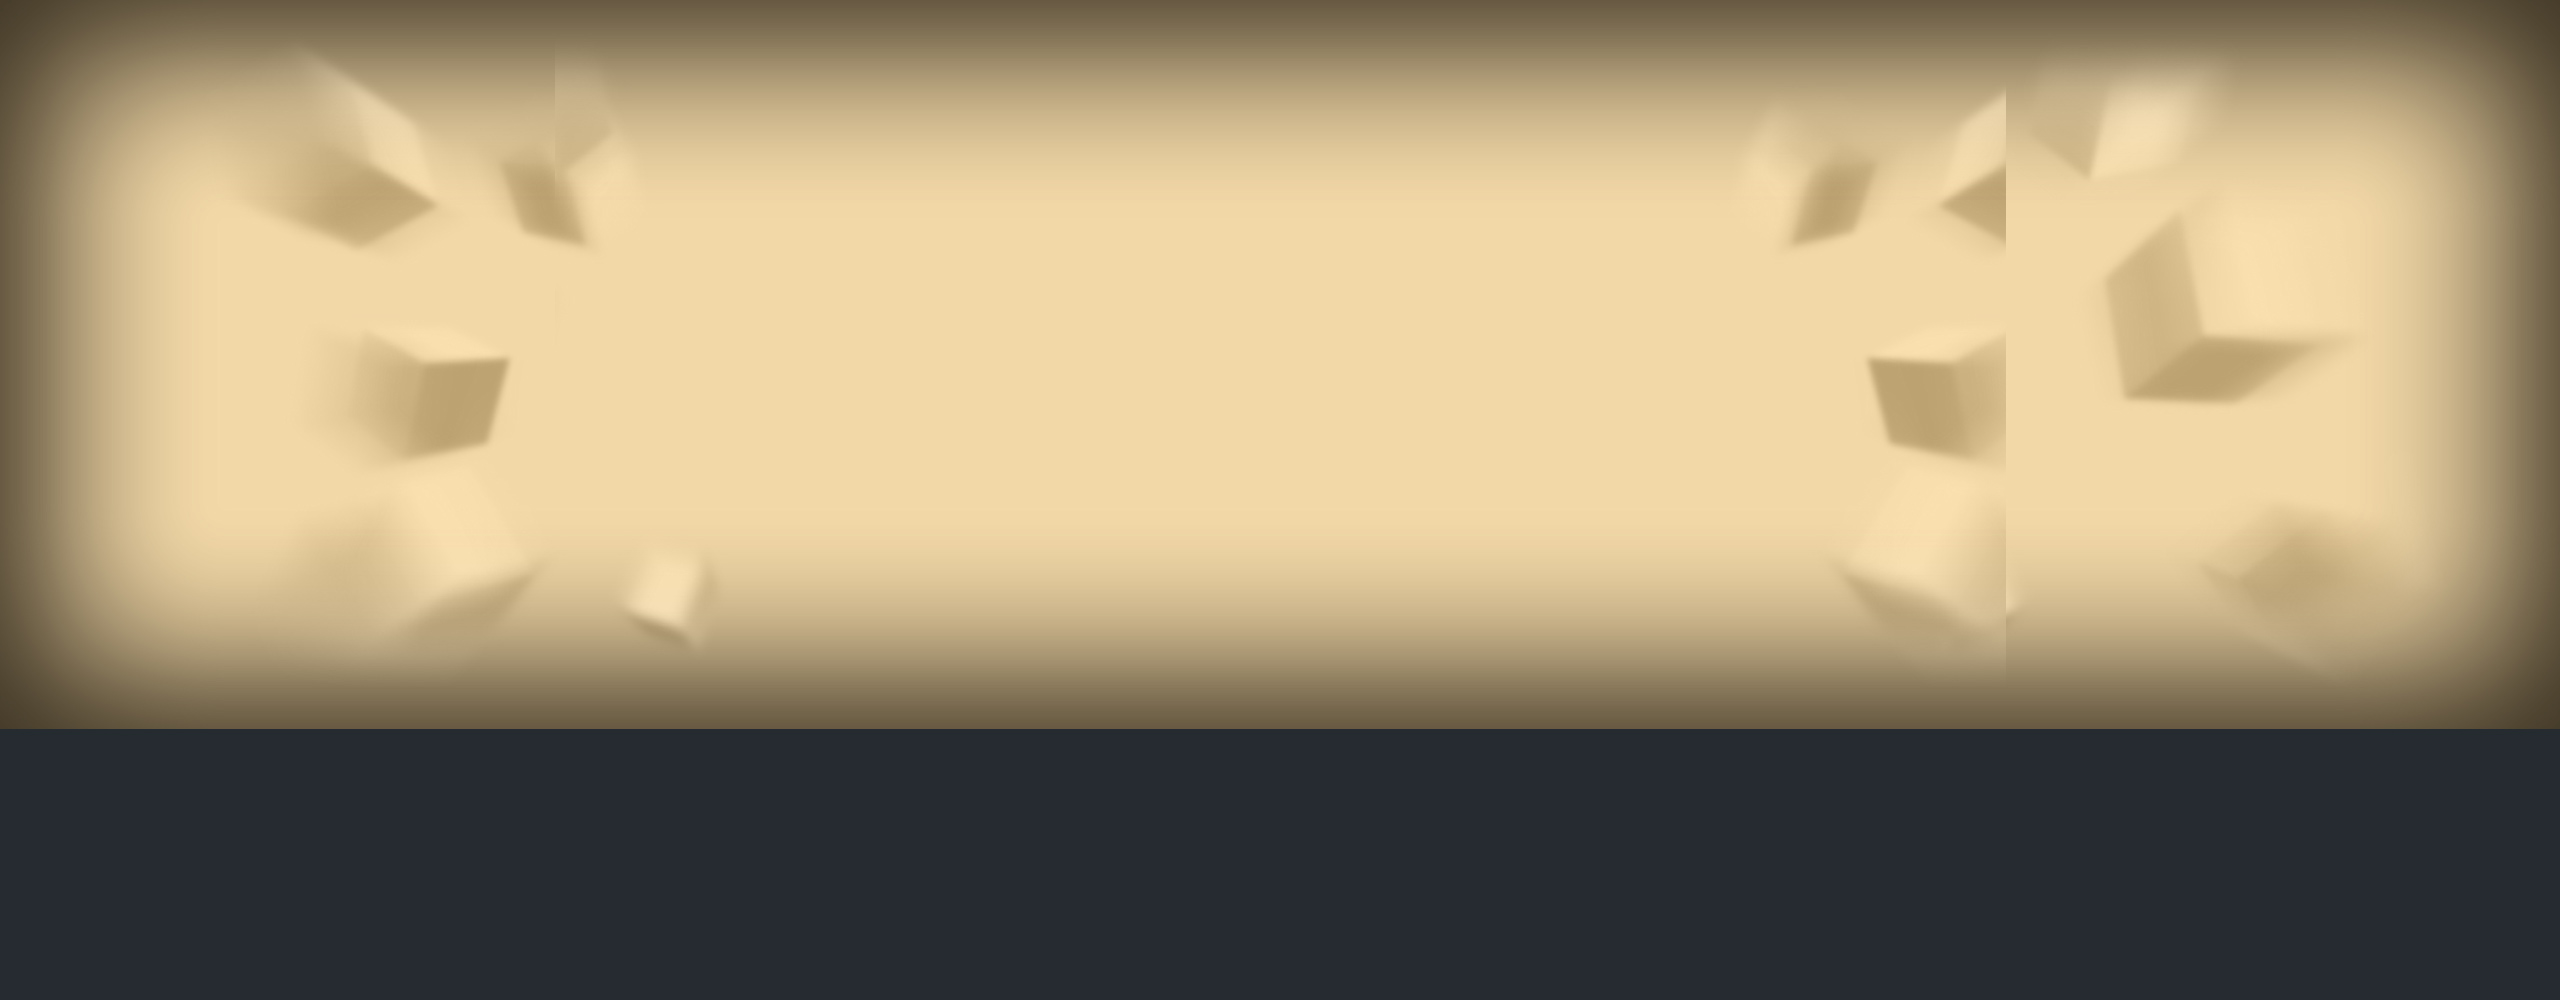
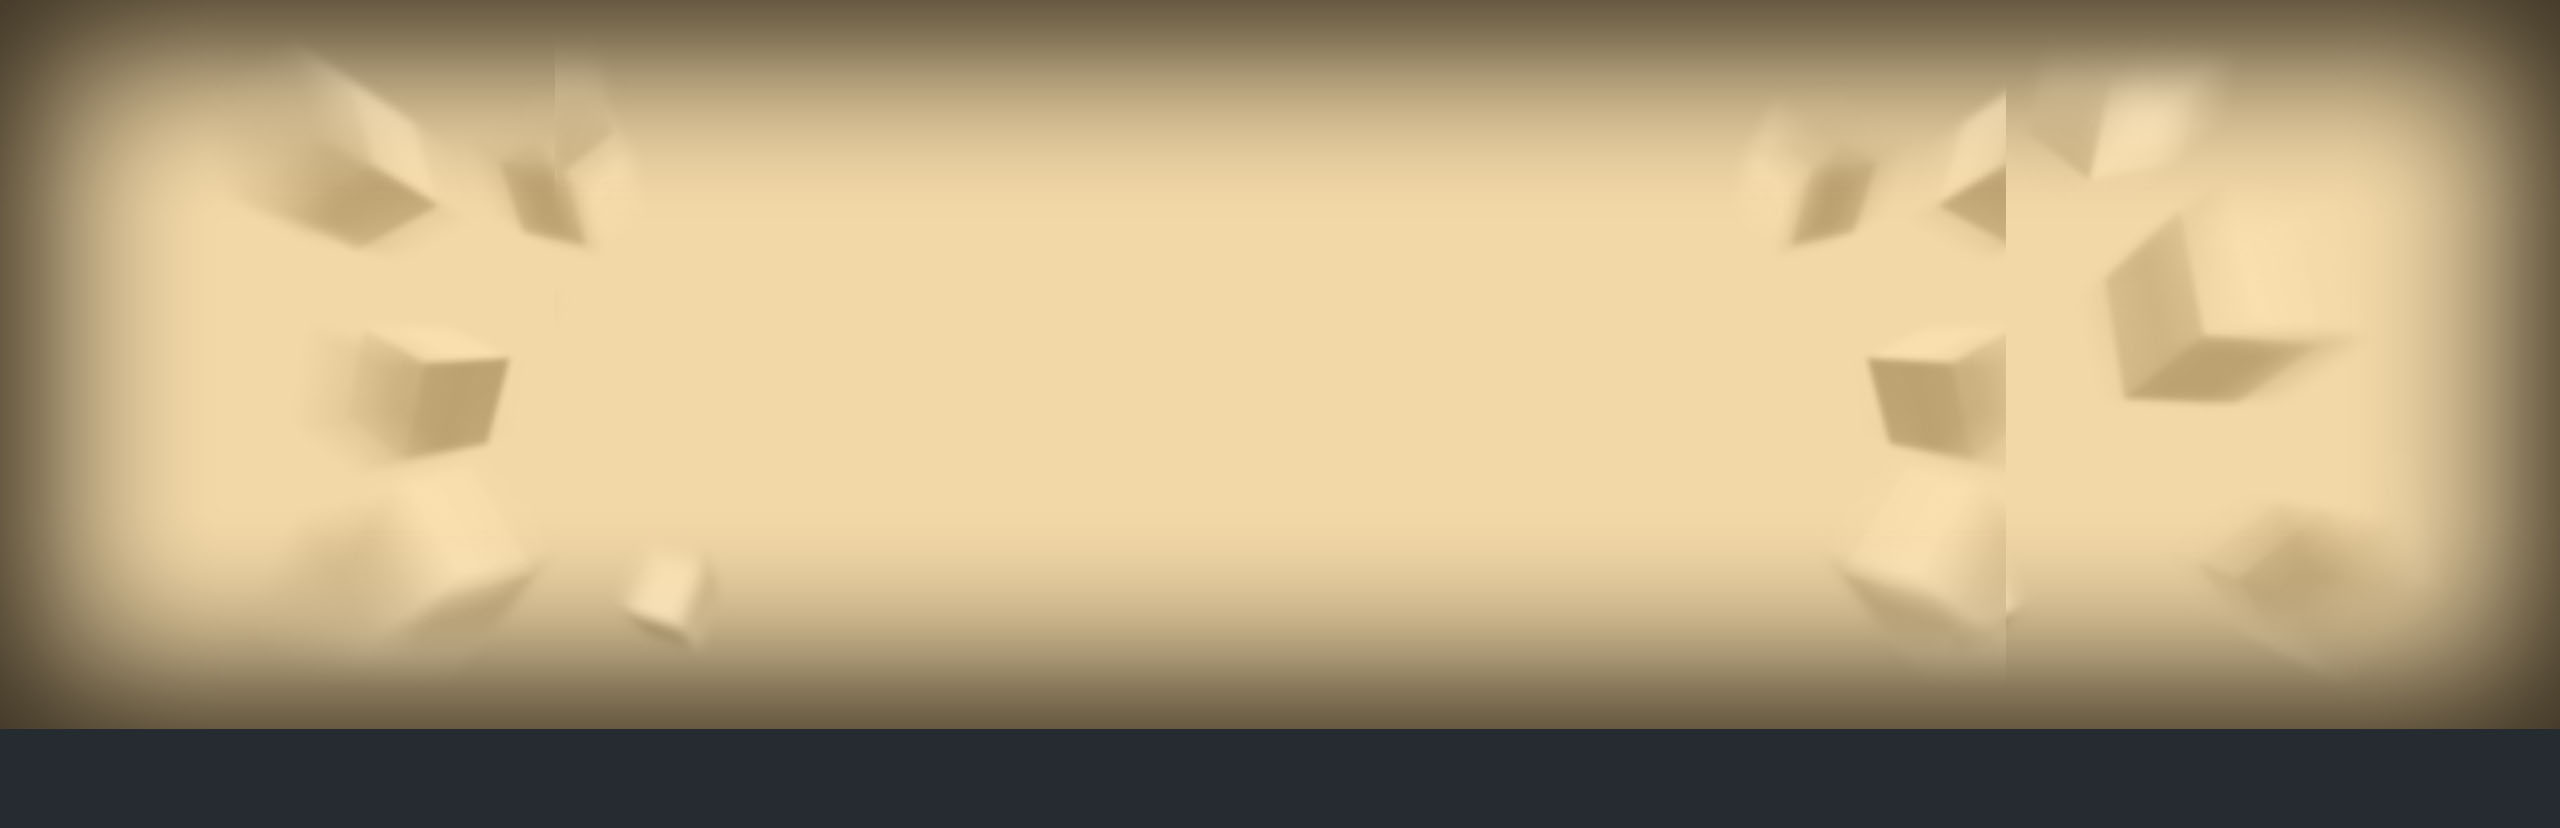
Изменения по главной странице. Уменьшили некоторые элементы + поправили баги

diff --git a/files/css/style.css b/files/css/style.css
@@ -489,11 +489,13 @@ p.dot:before {
 .second_slide {
   background: url(../images/bg_foto_slide.jpg) no-repeat;
   background-position: top center;
-  height: 1224px;
+  /*height: 1224px;*/
+  height: 1050px;
 }
 
 .foto_slide .foto_menu, .foto_slide .about_menu, .about_slide .foto_menu, .about_slide .about_menu {
-  padding: 91px 0 0 0;
+  padding: 71px 0 0 0;
+  /*91px*/
   overflow: hidden;
 }
 .foto_slide .foto_menu h2, .foto_slide .about_menu h2, .about_slide .foto_menu h2, .about_slide .about_menu h2 {
@@ -545,7 +547,8 @@ p.dot:before {
 }
 .foto_slide .foto_menu2, .about_slide .foto_menu2 {
   text-align: center;
-  padding: 65px 0 46px 0;
+  /*padding: 65px 0 46px 0;*/
+  padding: 35px 0 26px 0;
 }
 .foto_slide .foto_menu2 .item, .about_slide .foto_menu2 .item {
   width: auto;
@@ -586,7 +589,8 @@ p.dot:before {
   position: relative;
 }
 .swiper_padding_wrapper .left_blur_image, .swiper_padding_wrapper .right_blur_image {
-  height: 579px;
+  height: 479px;
+  /*579*/
   width: 100%;
   position: absolute;
   top: 37px;
@@ -678,7 +682,8 @@ p.dot:before {
 }
 
 .gallery-top {
-  height: 616px;
+  height: 516px;
+  /*616*/
   width: 100%;
 }
 
@@ -698,6 +703,18 @@ p.dot:before {
   -o-filter: grayscale(100%);
   filter: grayscale(100%);
   filter: gray;
+  -moz-transition: all 0.2s ease-in-out;
+  -o-transition: all 0.2s ease-in-out;
+  -webkit-transition: all 0.2s ease-in-out;
+  transition: all 0.2s ease-in-out;
+}
+
+.gallery-thumbs .swiper-slide:hover {
+  -webkit-filter: none;
+  -moz-filter: none;
+  -ms-filter: none;
+  -o-filter: none;
+  filter: none;
 }
 
 .gallery-thumbs .swiper-slide-active {
@@ -756,7 +773,7 @@ p.dot:before {
 
 .about_slide {
   position: relative;
-  overflow: hidden;
+  overflow: visible;
   background: url(../images/bg_about_slide.jpg) no-repeat;
   background-position: top center;
 }
@@ -931,6 +948,7 @@ a.btn1:hover {
   height: 244px;
   margin: 0px auto;
   z-index: 10;
+  /*.swiper-slide.swiper-slide-active, */
 }
 .swiper-container.gallery-foto .swiper-slide {
   text-align: center;
@@ -951,8 +969,12 @@ a.btn1:hover {
   -webkit-align-items: center;
   align-items: center;
   margin-top: 21px;
+  -moz-transition: all 0.2s ease-in-out;
+  -o-transition: all 0.2s ease-in-out;
+  -webkit-transition: all 0.2s ease-in-out;
+  transition: all 0.2s ease-in-out;
 }
-.swiper-container.gallery-foto .swiper-slide.swiper-slide-active {
+.swiper-container.gallery-foto .swiper-slide:hover {
   margin-top: 0px;
 }
 
@@ -960,9 +982,9 @@ a.btn1:hover {
 bg_blog
 */
 .blog_slide {
-  height: 855px;
+  height: 705px;
   background: url(../images/bg_blog.jpg) no-repeat;
-  background-position: top center;
+  background-position: bottom center;
   position: relative;
 }
 .blog_slide .blog_width_wrapper {
@@ -987,7 +1009,7 @@ bg_blog
   margin-top: -34px;
 }
 .blog_slide #blog_slider {
-  height: 700px;
+  height: 580px;
 }
 .blog_slide #blog_slider .swiper-wrapper .swiper-slide {
   width: 100%;
@@ -997,11 +1019,12 @@ bg_blog
   font-size: 1px;
 }
 .blog_slide #blog_slider .blog_link {
-  width: 220px;
+  width: 180px;
+  /*220px;*/
 }
 .blog_slide #blog_slider .blog_link a {
-  width: 220px;
-  height: 220px;
+  width: 180px;
+  height: 180px;
   display: inline-block;
   float: left;
 }
@@ -1386,8 +1409,8 @@ footer .beige_footer .right_info div a {
   margin: 39px 0 21px 0;
 }
 .inner_page .blog_slide {
-  height: 855px;
-  /*background: url(../images/bg_blog3.jpg) no-repeat;*/
+  height: 705px;
+  background: url(../images/bg_blog3.jpg) no-repeat;
 }
 
 br.clear {

diff --git a/sass/style.scss b/sass/style.scss
@@ -408,13 +408,14 @@ p.dot {
 {
 	background: url(../images/bg_foto_slide.jpg) no-repeat;
 	background-position: top center;
-	height: 1224px;
+	/*height: 1224px;*/
+	height: 1050px;
 }
 
 .foto_slide, .about_slide {
 	
 	.foto_menu, .about_menu {
-		padding: 91px 0 0 0;
+		padding: 71px 0 0 0; /*91px*/
 		overflow: hidden;
 		
 		h2 {
@@ -470,7 +471,8 @@ p.dot {
 	.foto_menu2 {
 		
 		text-align: center;
-		padding: 65px 0 46px 0;
+		/*padding: 65px 0 46px 0;*/
+		padding: 35px 0 26px 0;
 		.item {width:auto; /*230px;*/  display: inline-block; margin: 0 45px;
 			text-align: left;
 			vertical-align: top;
@@ -502,6 +504,7 @@ p.dot {
 	
 }
 
+
 .left_right_wrapper {
 	width: 100%;
 	overflow: hidden;
@@ -515,7 +518,7 @@ p.dot {
 	
 	
 	.left_blur_image, .right_blur_image {
-		height: 579px;
+		height: 479px; /*579*/
 		width: 100%;
 		position: absolute;
 		top: 37px;
@@ -582,7 +585,7 @@ p.dot {
         background-position: center;
     }
     .gallery-top {
-        height: 616px;
+        height: 516px; /*616*/
         width: 100%;
     }
     .gallery-thumbs {
@@ -601,7 +604,19 @@ p.dot {
 		  -o-filter: grayscale(100%);
 		  filter: grayscale(100%);
 		  filter: gray;
+		  @include transition(all 0.2s ease-in-out);
     }
+	
+	.gallery-thumbs .swiper-slide:hover {
+		
+        -webkit-filter: none;
+		  -moz-filter: none;
+		  -ms-filter: none;
+		  -o-filter: none;
+		  filter: none;
+		  
+    }
+	
     .gallery-thumbs .swiper-slide-active {
         @include opacity(1);
     }
@@ -664,7 +679,7 @@ p.dot {
 	
 .about_slide {
 	position: relative;
-	overflow: hidden;
+	overflow: visible;
 	background: url(../images/bg_about_slide.jpg) no-repeat;
 	background-position: top center;
 	
@@ -852,9 +867,10 @@ a.btn1 {
 			-webkit-align-items: center;
 			align-items: center;
 			margin-top: 21px;
+			@include transition(all 0.2s ease-in-out);
 		}
 		
-		.swiper-slide.swiper-slide-active {
+		/*.swiper-slide.swiper-slide-active, */.swiper-slide:hover {
 			margin-top: 0px;
 		}
 		
@@ -867,9 +883,9 @@ bg_blog
 
 .blog_slide
 {
-	height: 855px;
+	height: 705px;
 	background: url(../images/bg_blog.jpg) no-repeat;
-	background-position: top center;
+	background-position: bottom center;
 	position: relative;
 	
 	.blog_width_wrapper {
@@ -902,7 +918,7 @@ bg_blog
 	}
 	
 	#blog_slider{
-		height: 700px;
+		height: 580px;
 		
 		.swiper-wrapper {
 			.swiper-slide {
@@ -921,10 +937,10 @@ bg_blog
 		}
 		
 		.blog_link {
-			width: 220px;
+			width: 180px;/*220px;*/
 			a {
-				width: 220px;
-				height: 220px;
+				width: 180px;
+				height: 180px;
 				display: inline-block;
 				float: left;
 			}
@@ -1245,8 +1261,8 @@ footer {
 	
 	.blog_slide
 	{
-		height: 855px;
-		/*background: url(../images/bg_blog3.jpg) no-repeat;*/
+		height: 705px;
+		background: url(../images/bg_blog3.jpg) no-repeat;
 	}
 	
 }

diff --git a/index.html b/index.html
@@ -579,9 +579,7 @@
 										<td class="blog_txt">
 											<div>
 												<a href="#">Какой доступ лучше при<br/> увеличивающей мамопластике</a>
-												<p>Став единственным сертифицированным специалистом в России инновационному увеличению груди
-												по методике ведущего европейского хирурга, президента ассоциации палстических хирургов.
-												</p>
+												
 											</div>
 										</td>
 									</tr>
@@ -593,9 +591,7 @@
 										<td class="blog_txt">
 											<div>
 												<a href="#">Какой доступ лучше при<br/> увеличивающей мамопластике</a>
-												<p>Став единственным сертифицированным специалистом в России инновационному увеличению груди
-												по методике ведущего европейского хирурга, президента ассоциации палстических хирургов.
-												</p>
+											
 											</div>
 										</td>
 									</tr>
@@ -607,9 +603,7 @@
 										<td class="blog_txt">
 											<div>
 												<a href="#">Какой доступ лучше при<br/> увеличивающей мамопластике</a>
-												<p>Став единственным сертифицированным специалистом в России инновационному увеличению груди
-												по методике ведущего европейского хирурга, президента ассоциации палстических хирургов.
-												</p>
+												
 											</div>
 										</td>
 									</tr>
